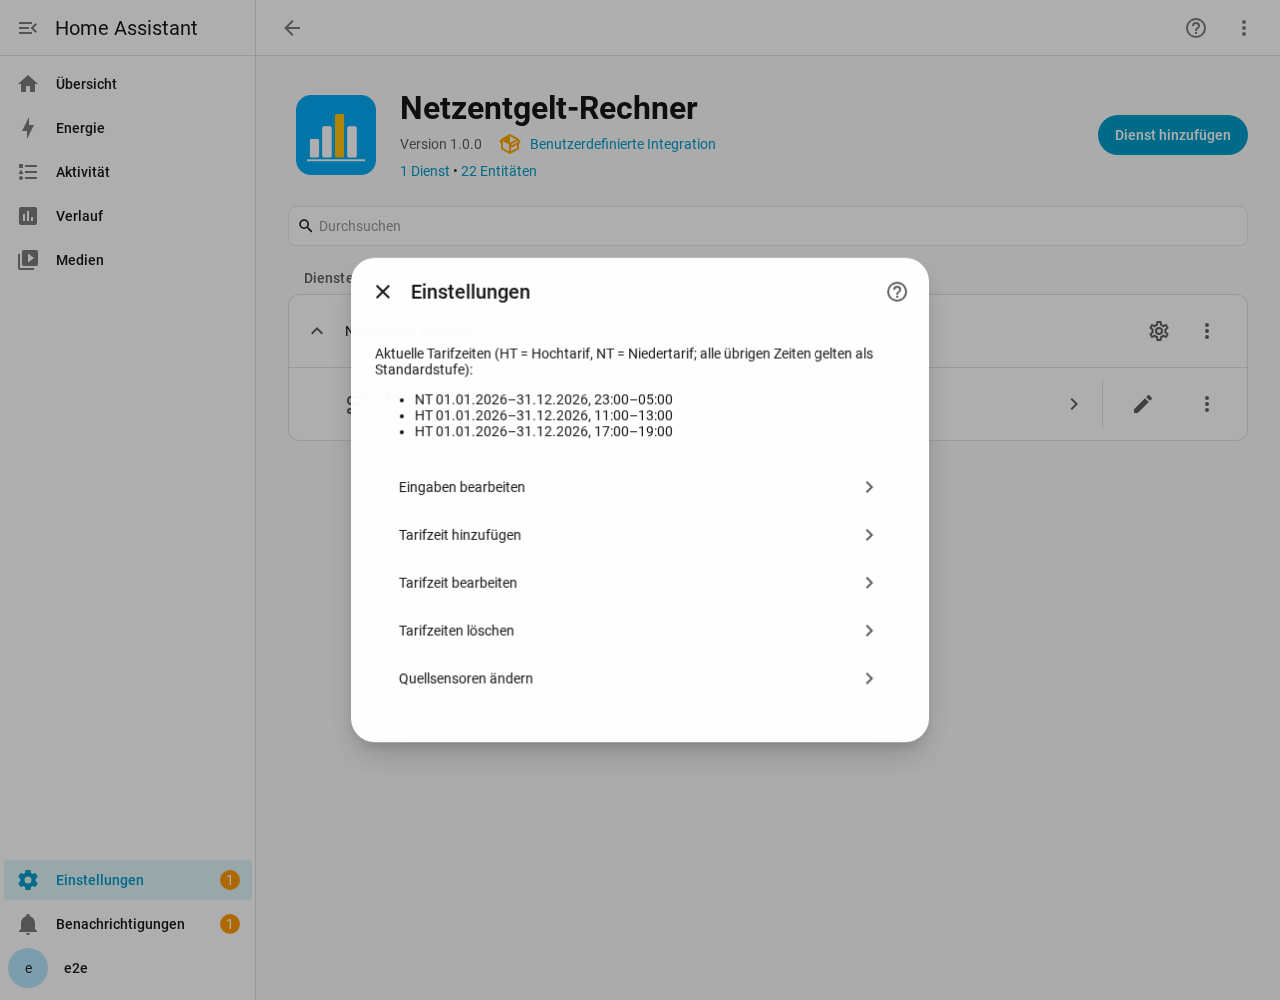
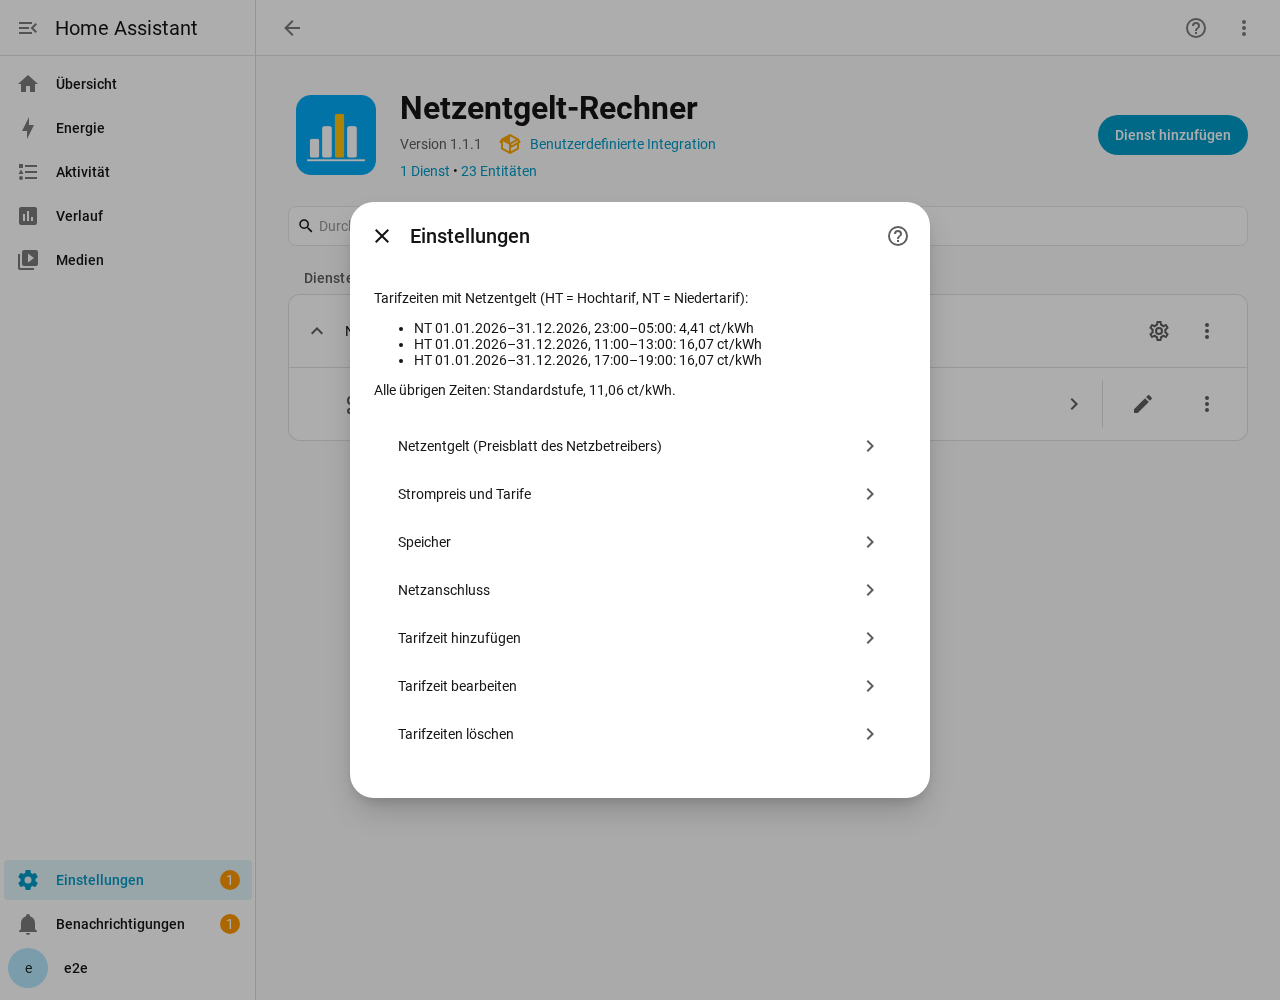
docs: update README and screenshots for the topic menus

Changed region(s): [[0.25, 0.186, 0.75, 0.496], [0.25, 0.527, 0.75, 0.806]]

diff --git a/README.md b/README.md
@@ -37,8 +37,8 @@ and in the options dialog:
 - **Dynamic tariff:** supplier markup (ct/kWh net) and extra base fee (EUR/year).
 - **Feed-in tariff** (ct/kWh).
 - **Battery data:** usable storage capacity (kWh, without reserves and manufacturer limits), usable capacity of a planned
-  extension (kWh), its cost (EUR),
-  round-trip efficiency, power (C-rate), wear cost.
+  extension (kWh), its cost (EUR), round-trip efficiency, charge/discharge power (kW, existing and added by
+  the extension), wear cost.
 
 ## Installation
 
@@ -47,9 +47,11 @@ and in the options dialog:
 2. Install *Netzentgelt-Rechner*, restart Home Assistant.
 3. *Settings → Devices & services → Add integration → Netzentgelt-Rechner*; pick your import meter,
    export meter and spot price sensor.
-4. Enter your values and tariff windows: *Configure* on the integration → **Edit inputs** (with a collapsed
-   help block that explains every field: why, what to enter, where to find it) and *Add tariff window*.
-   Experienced users can also change the numbers directly in the device's number entities. Then press *Neu berechnen* (recalculate). The result appears in
+4. Enter your values: *Configure* on the integration shows the tariff windows with their grid fees and one entry
+   per topic: **Grid fee**, **Electricity price and tariffs** (incl. the spot price sensor), **Battery**, **Grid
+   connection** (incl. the meters). Each topic starts with a collapsed help block that explains every field (why,
+   what to enter, where to find it). Experienced users can also change the numbers directly in the device's number
+   entities. Then press *Neu berechnen* (recalculate). The result appears in
    the *Wirtschaftlichkeit* (profitability) sensor; the current grid fee in the *Netzentgelt* sensor.
 
 You can set the integration up **several times** (e.g. to compare different base data or locations); give each
@@ -58,9 +60,9 @@ after another.
 
 ### Screenshots
 
-| Edit inputs (help collapsed) | Help block expanded |
-|---|---|
-| ![Edit inputs](docs/screenshots/02-inputs-collapsed-en.png) | ![Help expanded](docs/screenshots/03-inputs-help-open-en.png) |
+| Settings with tariff windows and fees | Battery (help collapsed) | Help block expanded |
+|---|---|---|
+| ![Settings](docs/screenshots/01-options-menu-en.png) | ![Battery](docs/screenshots/02-speicher-collapsed-en.png) | ![Help](docs/screenshots/03-netzentgelt-help-open-en.png) |
 
 License: MIT. Dashboard example: [`examples/en/dashboard.yaml`](examples/en/dashboard.yaml).
 
@@ -109,7 +111,8 @@ und im Optionsdialog ein:
 - **Dynamischer Tarif:** Aufschlag des Lieferanten (ct/kWh netto) und Mehr-Grundgebühr (€/Jahr).
 - **Einspeisevergütung** (ct/kWh).
 - **Speicherdaten:** nutzbare Speicherkapazität (kWh, ohne Reserven und Herstellergrenzen), nutzbare Kapazität einer
-  geplanten Erweiterung (kWh) und deren Kosten (€), Wirkungsgrad, Leistung (C-Rate), Verschleißkosten.
+  geplanten Erweiterung (kWh) und deren Kosten (€), Wirkungsgrad, Lade-/Entladeleistung (kW, vorhanden und zusätzlich durch die Erweiterung),
+  Verschleißkosten.
 
 ### Installation
 
@@ -118,9 +121,11 @@ und im Optionsdialog ein:
 2. *Netzentgelt-Rechner* installieren, Home Assistant neu starten.
 3. *Einstellungen → Geräte & Dienste → Integration hinzufügen → Netzentgelt-Rechner*; Bezugszähler,
    Einspeisezähler und Börsenpreis-Sensor wählen.
-4. Ihre Werte und Tarifzeiten eintragen: *Konfigurieren* an der Integration → **Eingaben bearbeiten** (mit
-   eingeklapptem Hilfeblock, der jedes Feld erklärt: wozu, was eintragen, woher) und *Tarifzeit hinzufügen*.
-   Geübte Nutzer können die Zahlen auch direkt in den Zahlen-Entitäten des Geräts ändern. Dann *Neu berechnen* drücken. Das Ergebnis steht im Sensor *Wirtschaftlichkeit*, das
+4. Ihre Werte eintragen: *Konfigurieren* an der Integration zeigt die Tarifzeiten mit ihrem Netzentgelt und je
+   Thema einen Eintrag: **Netzentgelt**, **Strompreis und Tarife** (inkl. Börsenpreis-Sensor), **Speicher**,
+   **Netzanschluss** (inkl. Zähler). Jedes Thema beginnt mit einem eingeklappten Hilfeblock, der jedes Feld erklärt
+   (wozu, was eintragen, woher). Geübte Nutzer können die Zahlen auch direkt in den Zahlen-Entitäten des Geräts
+   ändern. Dann *Neu berechnen* drücken. Das Ergebnis steht im Sensor *Wirtschaftlichkeit*, das
    aktuelle Netzentgelt im Sensor *Netzentgelt*.
 
 Die Integration lässt sich **mehrfach einrichten** (z. B. um verschiedene Basisdaten oder Standorte gegenüberzustellen);
@@ -129,9 +134,9 @@ Instanzen laufen nacheinander.
 
 #### Bildschirmfotos
 
-| Eingaben bearbeiten (Hilfe eingeklappt) | Hilfeblock aufgeklappt | Tarifzeit-Konflikt |
-|---|---|---|
-| ![Eingaben](docs/screenshots/02-inputs-collapsed-de.png) | ![Hilfe](docs/screenshots/03-inputs-help-open-de.png) | ![Konflikt](docs/screenshots/06-window-overlap-error-de.png) |
+| Einstellungen mit Tarifzeiten und Entgelten | Netzanschluss (Hilfe eingeklappt) | Hilfeblock aufgeklappt | Tarifzeit-Konflikt |
+|---|---|---|---|
+| ![Einstellungen](docs/screenshots/01-options-menu-de.png) | ![Netzanschluss](docs/screenshots/02-anschluss-collapsed-de.png) | ![Hilfe](docs/screenshots/03-tarife-help-open-de.png) | ![Konflikt](docs/screenshots/06-window-overlap-error-de.png) |
 
 Lizenz: MIT. Dashboard-Beispiel: [`examples/de/dashboard.yaml`](examples/de/dashboard.yaml).
 
